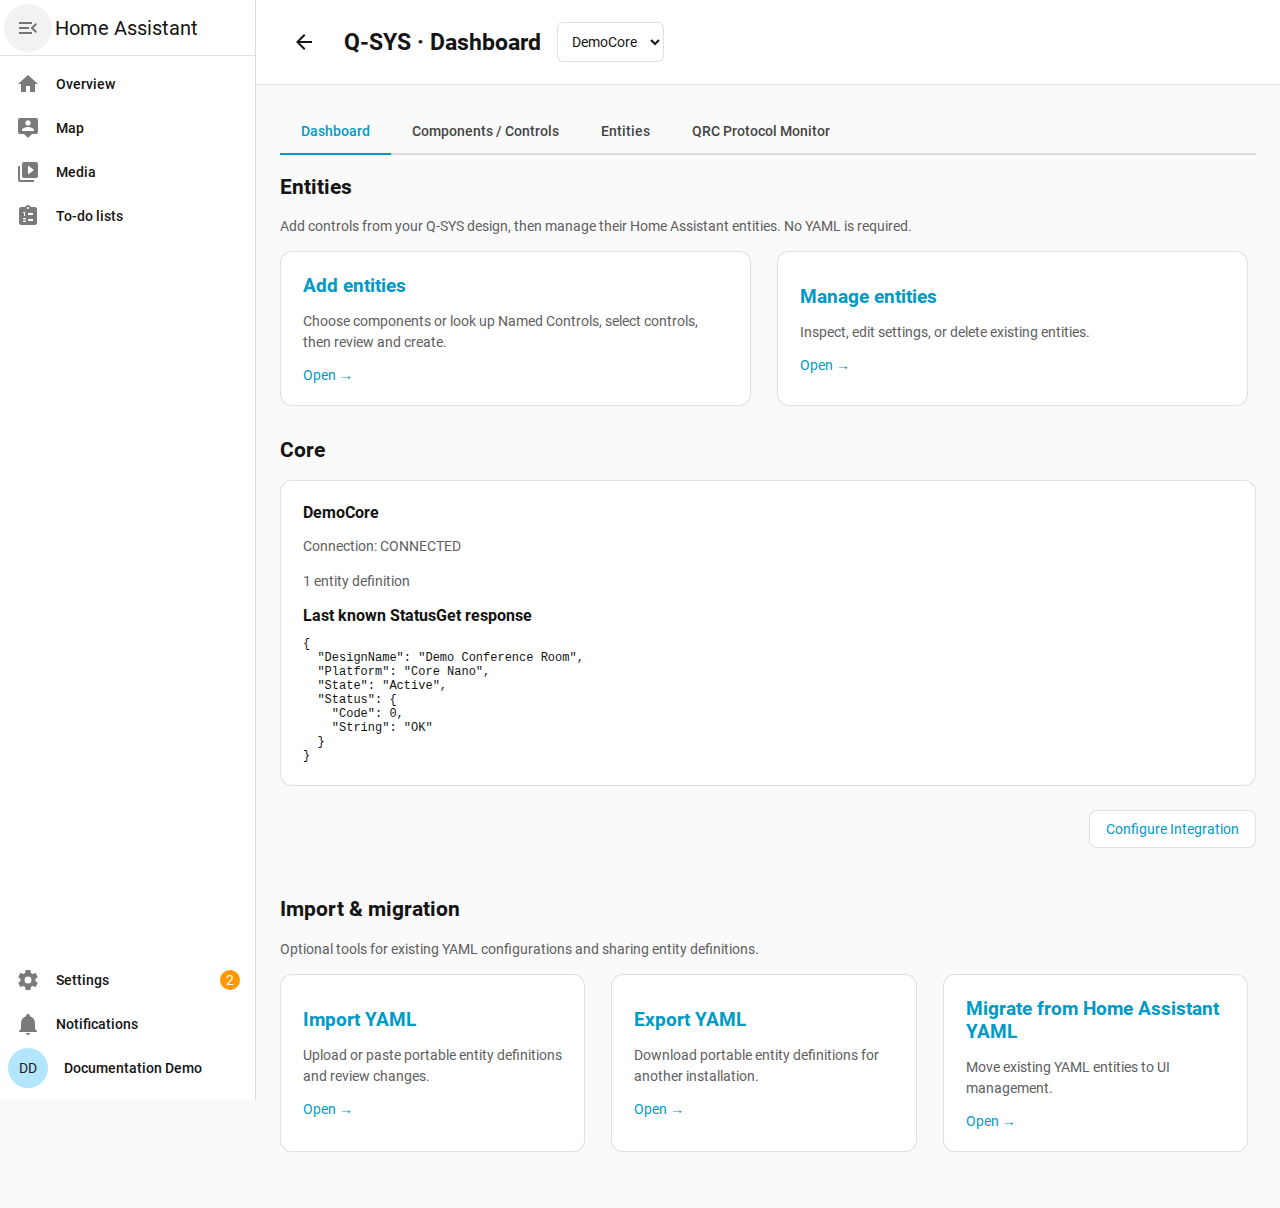
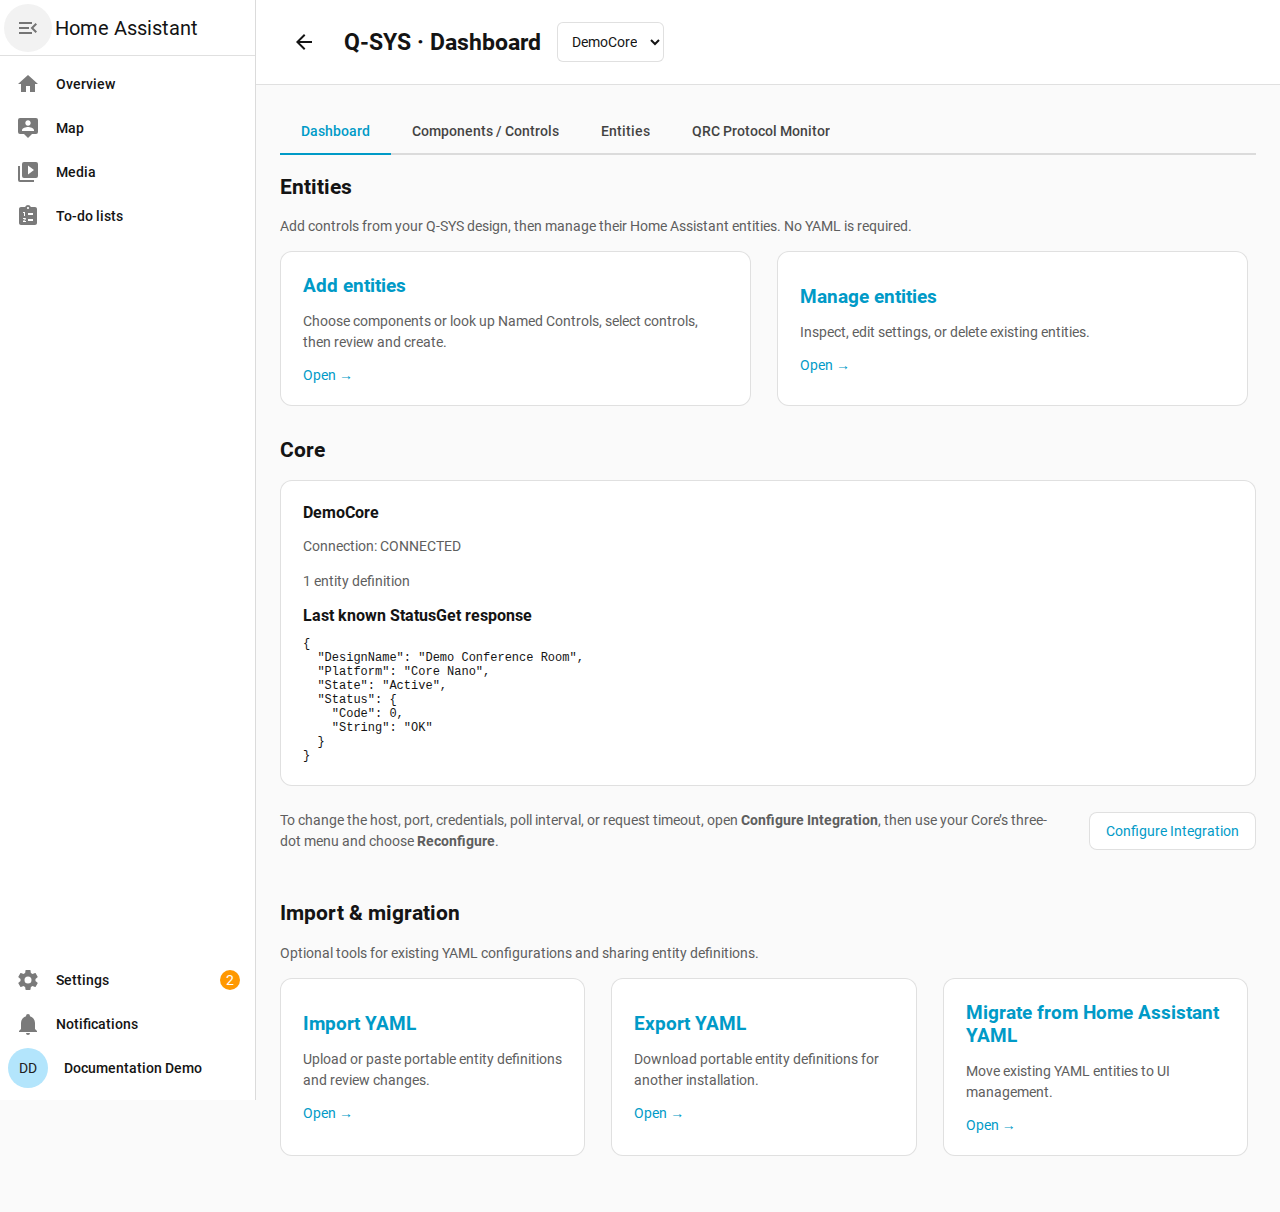
Restore Core reconfiguration guidance beside integration settings

diff --git a/custom_components/qsys_qrc/frontend/panel.js b/custom_components/qsys_qrc/frontend/panel.js
@@ -388,7 +388,7 @@ class QsysPanel extends HTMLElement {
   toolbar(){const label=['entities','migrate'].includes(this.view)?'Filter entities':'Filter controls';return `<div class="tools table-filter"><input id="search" placeholder="${label}…" aria-label="${label}" value="${escapeHTML(this.filter)}">${this.button('Refresh','refresh')}</div>`;}
   renderOverview(){
     const core=this.core;
-    return `<h2>Entities</h2><p>Add controls from your Q-SYS design, then manage their Home Assistant entities. No YAML is required.</p><div class="grid">${this.card('Add entities','Choose components or look up Named Controls, select controls, then review and create.','browser')}${this.card('Manage entities','Inspect, edit settings, or delete existing entities.','entities')}</div><h2>Core</h2><article class="card core-status"><h3>${escapeHTML(core.name)}</h3><p>Connection: ${escapeHTML(core.status)}</p><p>${core.entities} ${core.entities===1?'entity definition':'entity definitions'}</p><h3>Last known StatusGet response</h3><pre>${escapeHTML(JSON.stringify(core.engine||{},null,2))}</pre></article><div class="core-settings-actions">${this.button('Configure Integration','core-settings')}</div><h2>Import & migration</h2><p>Optional tools for existing YAML configurations and sharing entity definitions.</p><div class="grid">${this.card('Import YAML','Upload or paste portable entity definitions and review changes.','import')}${this.card('Export YAML','Download portable entity definitions for another installation.','export')}${this.card('Migrate from Home Assistant YAML','Move existing YAML entities to UI management.','migrate')}</div>`;
+    return `<h2>Entities</h2><p>Add controls from your Q-SYS design, then manage their Home Assistant entities. No YAML is required.</p><div class="grid">${this.card('Add entities','Choose components or look up Named Controls, select controls, then review and create.','browser')}${this.card('Manage entities','Inspect, edit settings, or delete existing entities.','entities')}</div><h2>Core</h2><article class="card core-status"><h3>${escapeHTML(core.name)}</h3><p>Connection: ${escapeHTML(core.status)}</p><p>${core.entities} ${core.entities===1?'entity definition':'entity definitions'}</p><h3>Last known StatusGet response</h3><pre>${escapeHTML(JSON.stringify(core.engine||{},null,2))}</pre></article><div class="core-settings-actions"><p>To change the host, port, credentials, poll interval, or request timeout, open <strong>Configure Integration</strong>, then use your Core’s three-dot menu and choose <strong>Reconfigure</strong>.</p>${this.button('Configure Integration','core-settings')}</div><h2>Import & migration</h2><p>Optional tools for existing YAML configurations and sharing entity definitions.</p><div class="grid">${this.card('Import YAML','Upload or paste portable entity definitions and review changes.','import')}${this.card('Export YAML','Download portable entity definitions for another installation.','export')}${this.card('Migrate from Home Assistant YAML','Move existing YAML entities to UI management.','migrate')}</div>`;
   }
   mappedControl(control){
     const platform=control.chosen||this.defaultPlatform(control);
@@ -469,7 +469,7 @@ class QsysPanel extends HTMLElement {
     if(this.view==='entities'&&!this.editableFields().some(([field])=>field===(this.editField||'name'))){this.editField='name';this.editValue='';}
     const titles={overview:'Dashboard',browser:'Components / Controls',entities:'Entities',monitor:'QRC Protocol Monitor',diagnostics:'Diagnostics',import:'Import YAML',export:'Export YAML',migrate:'Migrate from Home Assistant YAML'};
     this.shadowRoot.innerHTML=`<style>
-      :host{display:block;height:100%;overflow:auto;background:var(--primary-background-color);color:var(--primary-text-color);font-family:var(--paper-font-body1_-_font-family,Roboto,Arial,sans-serif)}*{box-sizing:border-box}[hidden]{display:none!important}header{display:flex;align-items:center;gap:16px;padding:18px 24px;background:var(--card-background-color);border-bottom:1px solid var(--divider-color)}header h1{margin:0;font-size:23px}main{max-width:1400px;margin:auto;padding:24px}.tools{display:flex;flex-wrap:wrap;align-items:center;gap:12px;margin-bottom:20px}.view-tabs{margin-bottom:20px}.fallback-tabs{display:flex;overflow-x:auto;border-bottom:2px solid var(--divider-color);gap:4px}.fallback-tabs button{flex-shrink:0;margin:0;border:0;border-bottom:3px solid transparent;border-radius:0;background:transparent;padding:12px 16px;color:var(--secondary-text-color)}.fallback-tabs button[aria-selected="true"]{border-bottom-color:var(--primary-color);color:var(--primary-color);font-weight:600}.fallback-tabs button:focus-visible{outline:2px solid var(--primary-color);outline-offset:-2px}.grid{display:grid;grid-template-columns:repeat(auto-fit,minmax(250px,1fr));gap:18px;margin-bottom:32px}.card,.review{background:var(--card-background-color);border:1px solid var(--divider-color);border-radius:12px;padding:22px;text-align:left}.core-status h3{margin:0 0 12px}.core-status pre{margin-bottom:0}.core-settings-actions{display:flex;justify-content:flex-end;padding:24px 0 32px}.core-settings-actions button{margin:0}.browser-config-card{margin-bottom:18px}.browser-config-card .tools:last-child{margin-bottom:0}.section-heading{display:flex;align-items:center;gap:8px;margin-bottom:12px}.section-heading h2{margin:0}.help{position:relative;display:inline-flex}.help-icon{display:inline-flex;align-items:center;justify-content:center;width:20px;height:20px;padding:0;margin:0;border-radius:50%;font-size:14px;font-weight:600;color:var(--secondary-text-color)}.help-icon:focus-visible{outline:2px solid var(--primary-color);outline-offset:3px}.card .help-tooltip{position:absolute;top:28px;left:-36px;z-index:2;width:300px;max-width:calc(100vw - 90px);padding:12px;border:1px solid var(--divider-color);border-radius:8px;background:var(--card-background-color);color:var(--primary-text-color);font-size:14px;line-height:1.5;box-shadow:0 3px 12px #0003;visibility:hidden;pointer-events:none}.help:hover .help-tooltip,.help:focus-within .help-tooltip{visibility:visible}.card h2{margin:0 0 12px;font-size:19px}.card .section-heading h2{margin:0}.card p,p{line-height:1.5;color:var(--secondary-text-color)}.card span{color:var(--primary-color)}button{cursor:pointer;color:var(--primary-color);background:var(--card-background-color);border:1px solid var(--divider-color);border-radius:8px;padding:10px 16px;font:inherit;margin-right:8px}button.sort-header{display:inline-flex;align-items:center;gap:6px;border:0;padding:0;margin:0;background:transparent;color:inherit;font-weight:600;text-align:left}.sort-icon{--mdc-icon-size:20px;width:20px;height:20px;flex:0 0 20px}.sort-icon.inactive{visibility:hidden}button.sort-header:hover{color:var(--primary-color)}.entity-label{display:inline-flex;align-items:center;gap:10px}.entity-label ha-state-icon{--mdc-icon-size:24px;width:24px;height:24px;flex:0 0 24px;color:var(--secondary-text-color)}button.entity-name{border:0;padding:0;margin:0;text-align:left;background:transparent}button.entity-name:hover{text-decoration:underline}button:hover{border-color:var(--primary-color)}button.filled{background:var(--primary-color);border-color:var(--primary-color);color:var(--text-primary-color,#fff)}button.danger{color:var(--error-color);border-color:var(--error-color)}button.danger.filled{background:var(--error-color);color:var(--text-primary-color,#fff)}button.filled:hover{filter:brightness(.92)}button:disabled{opacity:.5;cursor:not-allowed}:host([pinned-actions]){height:var(--qsys-panel-height,100dvh);display:flex;flex-direction:column;overflow:hidden}:host([pinned-actions]) header{flex-shrink:0}:host([pinned-actions]) main{flex:1;min-height:0;overflow:auto;width:100%}.action-bar{flex-shrink:0;width:calc(100% - 48px);max-width:1352px;margin:0 auto 24px;z-index:3;display:flex;align-items:center;justify-content:space-between;flex-wrap:wrap;gap:12px;padding:14px 18px;background:var(--card-background-color);border:1px solid var(--divider-color);border-radius:12px;box-shadow:0 -3px 12px #0001}.action-bar button{margin:0}.entity-action-bar{display:block;max-height:60dvh;overflow:auto}.edit-controls{display:grid;grid-template-columns:minmax(160px,1fr) minmax(200px,2fr);gap:12px;margin-bottom:12px}.edit-controls label{margin:0}.edit-controls select{display:block;width:100%;margin-top:8px}.edit-controls p{grid-column:1/-1;margin:0}.entity-action-footer{position:sticky;bottom:0;display:flex;align-items:center;justify-content:space-between;flex-wrap:wrap;gap:12px;background:var(--card-background-color)}.entity-actions{display:flex;flex-wrap:wrap;gap:12px}.empty-state{padding:20px;border:1px dashed var(--divider-color);border-radius:8px}input,select,textarea{font:inherit;color:var(--primary-text-color);background:var(--card-background-color);border:1px solid var(--divider-color);border-radius:6px;padding:10px;max-width:100%}input[type=checkbox]{width:18px;height:18px;accent-color:var(--primary-color)}label{display:block;margin:12px 0}.edit-value-label>input,.edit-value-label>select,.edit-value-label>textarea{display:block;margin-top:8px}textarea{display:block;width:100%;margin:10px 0;font-family:monospace}.component-picker{display:grid;grid-template-columns:repeat(auto-fit,minmax(min(100%,320px),1fr));gap:12px 20px}.component-picker.single-column{grid-template-columns:1fr}.component-picker label{display:flex;align-items:flex-start;gap:10px;min-width:0;margin:4px 0;cursor:pointer}.component-picker input[type=checkbox]{flex:0 0 18px;margin:2px 0 0}.component-picker .component-label{display:flex;flex-direction:column;align-items:flex-start;gap:4px;min-width:0}.component-picker .component-name{color:var(--primary-text-color);font-size:inherit;overflow-wrap:anywhere;min-width:0}.component-picker .component-type{color:var(--secondary-text-color);font-size:12px;overflow-wrap:anywhere}.mapped-row{background:var(--secondary-background-color)}.mapped-row td{color:var(--disabled-text-color,var(--secondary-text-color))}.mapped-row input{opacity:.55}.mapped-badge{display:block;font-size:12px;margin-top:4px}button.mapped-link{padding:0;margin:4px 0 0;border:0;background:transparent;text-align:left}button.mapped-link:hover{text-decoration:underline}.component-group th{background:var(--secondary-background-color);color:var(--primary-text-color)}.table-filter{margin-bottom:8px}.table-filter+.table{margin-top:0}.table{overflow:auto;margin:20px 0}table{border-collapse:collapse;width:100%;text-align:left}th,td{padding:12px;border-bottom:1px solid var(--divider-color);vertical-align:top}th{color:var(--secondary-text-color)}pre{white-space:pre-wrap;overflow-wrap:anywhere;font-size:12px;max-width:800px}summary{cursor:pointer}.badge{font-size:12px}.error{padding:16px;border-radius:8px;background:var(--error-color);color:white}.message{padding:12px;border:1px solid var(--primary-color)}#review-dialog{width:min(900px,calc(100vw - 32px));max-height:calc(100dvh - 32px);padding:0;border:1px solid var(--divider-color);border-radius:12px;background:var(--card-background-color);color:var(--primary-text-color)}#review-dialog::backdrop{background:rgba(0,0,0,.5)}.review{margin:0;border:0}.review h2{margin-top:0}.review-content{overflow:auto;max-height:55dvh}.review-actions{display:flex;justify-content:flex-end;gap:12px;flex-wrap:wrap;margin-top:20px}.review-actions button{margin:0}@media(max-width:600px){.edit-controls{grid-template-columns:1fr}.action-bar{width:calc(100% - 28px);margin-bottom:14px}main{padding:14px}header{padding:14px;flex-wrap:wrap}header select{width:100%}.grid{grid-template-columns:1fr}}
+      :host{display:block;height:100%;overflow:auto;background:var(--primary-background-color);color:var(--primary-text-color);font-family:var(--paper-font-body1_-_font-family,Roboto,Arial,sans-serif)}*{box-sizing:border-box}[hidden]{display:none!important}header{display:flex;align-items:center;gap:16px;padding:18px 24px;background:var(--card-background-color);border-bottom:1px solid var(--divider-color)}header h1{margin:0;font-size:23px}main{max-width:1400px;margin:auto;padding:24px}.tools{display:flex;flex-wrap:wrap;align-items:center;gap:12px;margin-bottom:20px}.view-tabs{margin-bottom:20px}.fallback-tabs{display:flex;overflow-x:auto;border-bottom:2px solid var(--divider-color);gap:4px}.fallback-tabs button{flex-shrink:0;margin:0;border:0;border-bottom:3px solid transparent;border-radius:0;background:transparent;padding:12px 16px;color:var(--secondary-text-color)}.fallback-tabs button[aria-selected="true"]{border-bottom-color:var(--primary-color);color:var(--primary-color);font-weight:600}.fallback-tabs button:focus-visible{outline:2px solid var(--primary-color);outline-offset:-2px}.grid{display:grid;grid-template-columns:repeat(auto-fit,minmax(250px,1fr));gap:18px;margin-bottom:32px}.card,.review{background:var(--card-background-color);border:1px solid var(--divider-color);border-radius:12px;padding:22px;text-align:left}.core-status h3{margin:0 0 12px}.core-status pre{margin-bottom:0}.core-settings-actions{display:flex;align-items:center;justify-content:flex-end;flex-wrap:wrap;gap:16px 24px;padding:24px 0 32px}.core-settings-actions p{flex:1 1 300px;margin:0}.core-settings-actions button{flex-shrink:0;margin:0}.browser-config-card{margin-bottom:18px}.browser-config-card .tools:last-child{margin-bottom:0}.section-heading{display:flex;align-items:center;gap:8px;margin-bottom:12px}.section-heading h2{margin:0}.help{position:relative;display:inline-flex}.help-icon{display:inline-flex;align-items:center;justify-content:center;width:20px;height:20px;padding:0;margin:0;border-radius:50%;font-size:14px;font-weight:600;color:var(--secondary-text-color)}.help-icon:focus-visible{outline:2px solid var(--primary-color);outline-offset:3px}.card .help-tooltip{position:absolute;top:28px;left:-36px;z-index:2;width:300px;max-width:calc(100vw - 90px);padding:12px;border:1px solid var(--divider-color);border-radius:8px;background:var(--card-background-color);color:var(--primary-text-color);font-size:14px;line-height:1.5;box-shadow:0 3px 12px #0003;visibility:hidden;pointer-events:none}.help:hover .help-tooltip,.help:focus-within .help-tooltip{visibility:visible}.card h2{margin:0 0 12px;font-size:19px}.card .section-heading h2{margin:0}.card p,p{line-height:1.5;color:var(--secondary-text-color)}.card span{color:var(--primary-color)}button{cursor:pointer;color:var(--primary-color);background:var(--card-background-color);border:1px solid var(--divider-color);border-radius:8px;padding:10px 16px;font:inherit;margin-right:8px}button.sort-header{display:inline-flex;align-items:center;gap:6px;border:0;padding:0;margin:0;background:transparent;color:inherit;font-weight:600;text-align:left}.sort-icon{--mdc-icon-size:20px;width:20px;height:20px;flex:0 0 20px}.sort-icon.inactive{visibility:hidden}button.sort-header:hover{color:var(--primary-color)}.entity-label{display:inline-flex;align-items:center;gap:10px}.entity-label ha-state-icon{--mdc-icon-size:24px;width:24px;height:24px;flex:0 0 24px;color:var(--secondary-text-color)}button.entity-name{border:0;padding:0;margin:0;text-align:left;background:transparent}button.entity-name:hover{text-decoration:underline}button:hover{border-color:var(--primary-color)}button.filled{background:var(--primary-color);border-color:var(--primary-color);color:var(--text-primary-color,#fff)}button.danger{color:var(--error-color);border-color:var(--error-color)}button.danger.filled{background:var(--error-color);color:var(--text-primary-color,#fff)}button.filled:hover{filter:brightness(.92)}button:disabled{opacity:.5;cursor:not-allowed}:host([pinned-actions]){height:var(--qsys-panel-height,100dvh);display:flex;flex-direction:column;overflow:hidden}:host([pinned-actions]) header{flex-shrink:0}:host([pinned-actions]) main{flex:1;min-height:0;overflow:auto;width:100%}.action-bar{flex-shrink:0;width:calc(100% - 48px);max-width:1352px;margin:0 auto 24px;z-index:3;display:flex;align-items:center;justify-content:space-between;flex-wrap:wrap;gap:12px;padding:14px 18px;background:var(--card-background-color);border:1px solid var(--divider-color);border-radius:12px;box-shadow:0 -3px 12px #0001}.action-bar button{margin:0}.entity-action-bar{display:block;max-height:60dvh;overflow:auto}.edit-controls{display:grid;grid-template-columns:minmax(160px,1fr) minmax(200px,2fr);gap:12px;margin-bottom:12px}.edit-controls label{margin:0}.edit-controls select{display:block;width:100%;margin-top:8px}.edit-controls p{grid-column:1/-1;margin:0}.entity-action-footer{position:sticky;bottom:0;display:flex;align-items:center;justify-content:space-between;flex-wrap:wrap;gap:12px;background:var(--card-background-color)}.entity-actions{display:flex;flex-wrap:wrap;gap:12px}.empty-state{padding:20px;border:1px dashed var(--divider-color);border-radius:8px}input,select,textarea{font:inherit;color:var(--primary-text-color);background:var(--card-background-color);border:1px solid var(--divider-color);border-radius:6px;padding:10px;max-width:100%}input[type=checkbox]{width:18px;height:18px;accent-color:var(--primary-color)}label{display:block;margin:12px 0}.edit-value-label>input,.edit-value-label>select,.edit-value-label>textarea{display:block;margin-top:8px}textarea{display:block;width:100%;margin:10px 0;font-family:monospace}.component-picker{display:grid;grid-template-columns:repeat(auto-fit,minmax(min(100%,320px),1fr));gap:12px 20px}.component-picker.single-column{grid-template-columns:1fr}.component-picker label{display:flex;align-items:flex-start;gap:10px;min-width:0;margin:4px 0;cursor:pointer}.component-picker input[type=checkbox]{flex:0 0 18px;margin:2px 0 0}.component-picker .component-label{display:flex;flex-direction:column;align-items:flex-start;gap:4px;min-width:0}.component-picker .component-name{color:var(--primary-text-color);font-size:inherit;overflow-wrap:anywhere;min-width:0}.component-picker .component-type{color:var(--secondary-text-color);font-size:12px;overflow-wrap:anywhere}.mapped-row{background:var(--secondary-background-color)}.mapped-row td{color:var(--disabled-text-color,var(--secondary-text-color))}.mapped-row input{opacity:.55}.mapped-badge{display:block;font-size:12px;margin-top:4px}button.mapped-link{padding:0;margin:4px 0 0;border:0;background:transparent;text-align:left}button.mapped-link:hover{text-decoration:underline}.component-group th{background:var(--secondary-background-color);color:var(--primary-text-color)}.table-filter{margin-bottom:8px}.table-filter+.table{margin-top:0}.table{overflow:auto;margin:20px 0}table{border-collapse:collapse;width:100%;text-align:left}th,td{padding:12px;border-bottom:1px solid var(--divider-color);vertical-align:top}th{color:var(--secondary-text-color)}pre{white-space:pre-wrap;overflow-wrap:anywhere;font-size:12px;max-width:800px}summary{cursor:pointer}.badge{font-size:12px}.error{padding:16px;border-radius:8px;background:var(--error-color);color:white}.message{padding:12px;border:1px solid var(--primary-color)}#review-dialog{width:min(900px,calc(100vw - 32px));max-height:calc(100dvh - 32px);padding:0;border:1px solid var(--divider-color);border-radius:12px;background:var(--card-background-color);color:var(--primary-text-color)}#review-dialog::backdrop{background:rgba(0,0,0,.5)}.review{margin:0;border:0}.review h2{margin-top:0}.review-content{overflow:auto;max-height:55dvh}.review-actions{display:flex;justify-content:flex-end;gap:12px;flex-wrap:wrap;margin-top:20px}.review-actions button{margin:0}@media(max-width:600px){.edit-controls{grid-template-columns:1fr}.action-bar{width:calc(100% - 28px);margin-bottom:14px}main{padding:14px}header{padding:14px;flex-wrap:wrap}header select{width:100%}.grid{grid-template-columns:1fr}}
     </style><header><ha-icon-button id="back" data-action="back" label="Back to Connectivity"></ha-icon-button><h1>Q-SYS · ${titles[this.view]}</h1><select id="core" aria-label="Q-SYS Core">${this.cores.map(c=>`<option value="${escapeHTML(c.entry_id)}" ${c.entry_id===this.entry?'selected':''}>${escapeHTML(c.name)}</option>`).join('')}</select></header><main>${this.renderNavigation(titles)}<section id="view-content" role="tabpanel" aria-label="${titles[this.view]}">${this.error?`<p class="error" role="alert">${escapeHTML(this.error)}</p>`:''}${this.message?`<div class="message"><p role="status">${escapeHTML(this.message)}${this.reloadPending?' Updating entities…':''}</p>${this.messageEntities?this.button('View entities','navigate','data-view="entities"'):''}</div>`:''}${!this.cores.length?`<section class="card"><h2>Connect your first Core</h2><p>Open Settings → Devices &amp; services, choose Add integration, and search for Q-Sys QRC. Then return here to create entities. No YAML is required.</p>${this.button('Open integration settings','core-settings')}</section>`:this.view==='overview'?this.renderOverview():this.view==='browser'?this.renderBrowser():this.view==='entities'||this.view==='migrate'?this.renderEntities(this.view==='migrate'):this.view==='monitor'?this.renderMonitor():this.view==='diagnostics'?`<div class="grid">${this.cores.map(c=>`<article class="card"><h2>${escapeHTML(c.name)}</h2><p>${escapeHTML(c.status)}</p>${c.last_error?`<p role="alert">${escapeHTML(c.last_error)}</p>`:''}<p>Design information recorded when the Core was configured:</p><pre>${escapeHTML(JSON.stringify(c.engine,null,2))}</pre><p>Use the Protocol Monitor to inspect errors and polling responses. Core connection changes are available under Settings → Devices & services → Q-SYS → Reconfigure.</p></article>`).join('')}</div>`:this.renderTransport()}${this.review?this.renderReview():''}</section></main>${this.cores.length?(this.view==='browser'?this.renderCreationBar():this.view==='entities'?this.renderEntityBar():''):''}`;
     this.updateActionPanelHeight();
     this.updateEntityIcons();

diff --git a/scripts/screenshots/panel.py b/scripts/screenshots/panel.py
@@ -254,6 +254,12 @@ async def capture(config):
                 await panel.get_by_role("heading", name="Last known StatusGet response", exact=True).wait_for()
                 await expect(panel.locator(".core-status pre")).to_contain_text('"Status"')
                 await panel.get_by_role("button", name="Configure Integration", exact=True).wait_for()
+                await expect(panel.locator(".core-settings-actions")).to_contain_text(
+                    "poll interval, or request timeout"
+                )
+                await expect(panel.locator(".core-settings-actions")).to_contain_text(
+                    "three-dot menu and choose Reconfigure"
+                )
                 await screenshot("panel-dashboard.png")
                 await panel.get_by_role(
                     "tab", name="Components / Controls", exact=True

diff --git a/README.md b/README.md
@@ -113,7 +113,7 @@ and the Core name. Keep the Core name unchanged when migrating: it is part of
 entity unique IDs and identifies the Core in Home Assistant YAML.
 
 Use **Configure Integration** below the dashboard’s **Core** section to open the Q-SYS integration page.
-Choose the relevant entry and **Reconfigure** to update it. To connect another
+Open the relevant Core entry’s three-dot menu and choose **Reconfigure** to update it. To connect another
 Core, use **Add integration** under **Settings → Devices & services** and choose
 Q-Sys QRC again, using a different Core name. Select the Core from the panel’s
 header to switch between them. Remove a Core through its integration entry’s
